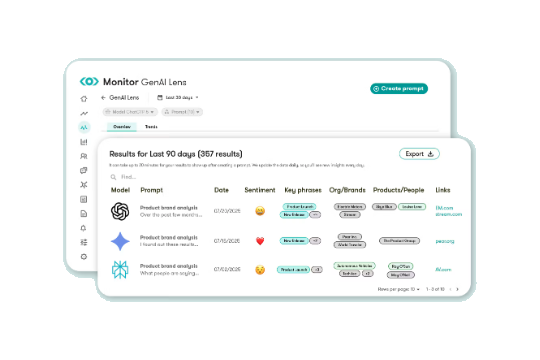
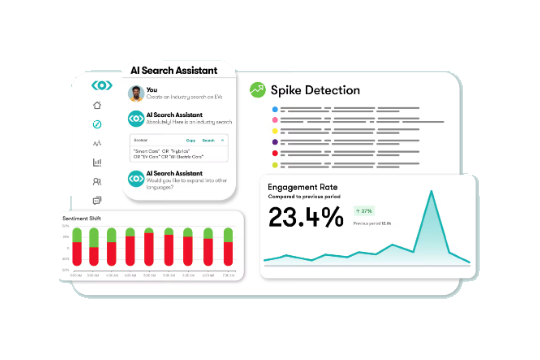
Meltwater: clearer role text, AI visibility slide earlier; smaller Sofía phone
Claude-Session: https://claude.ai/code/session_01VctHjMP7txnqP7GLp3r3E1

Changed region(s): [[0.1185, 0.1528, 0.8889, 0.8556]]

diff --git a/src/components/Projects/Projects.tsx b/src/components/Projects/Projects.tsx
@@ -24,10 +24,10 @@ const Projects = () => {
             </a>
             <p className="text-lg">
               Media, social, and influencer intelligence platform used by PR
-              and marketing teams worldwide. I worked on the Newsletters
-              product, the builder that turns media coverage into branded
-              email digests, and also collaborated on the tools teams use to
-              work with influencers.
+              and marketing teams worldwide. I built features for the
+              Newsletters builder, which turns media coverage into branded
+              email digests, and for the influencer marketing tools that teams
+              use to discover, contact, and track creators.
             </p>
             <p className="text-sm text-zinc-500 mt-2">
               Screenshots from Meltwater's public product tours. All rights

diff --git a/src/components/Projects/SofiaSlider.tsx b/src/components/Projects/SofiaSlider.tsx
@@ -80,7 +80,7 @@ const SofiaSlider = ({ href }: { href?: string }) => {
       onMouseLeave={() => setPaused(false)}
     >
       {/* phone frame (left) */}
-      <div className="relative h-[84%] aspect-[471/1024] shrink-0 rounded-[1.4rem] bg-zinc-900 p-[5px] shadow-xl">
+      <div className="relative h-[78%] aspect-[471/1024] shrink-0 rounded-[1.4rem] bg-zinc-900 p-[5px] shadow-xl">
         <div className="relative h-full w-full overflow-hidden rounded-[1.1rem] bg-white">
           {screens.map((src, i) => (
             <img

diff --git a/src/components/Projects/MeltwaterSlider.tsx b/src/components/Projects/MeltwaterSlider.tsx
@@ -14,8 +14,8 @@ const screens = Object.keys(modules)
 const titles = [
   "Newsletter builder · pick a template",
   "Social analytics dashboard",
-  "AI search assistant & spike detection",
   "AI visibility tracking",
+  "AI search assistant & spike detection",
   "Influencer profile & audience insights",
   "AI assistant for PR teams",
   "Influencer discovery",
